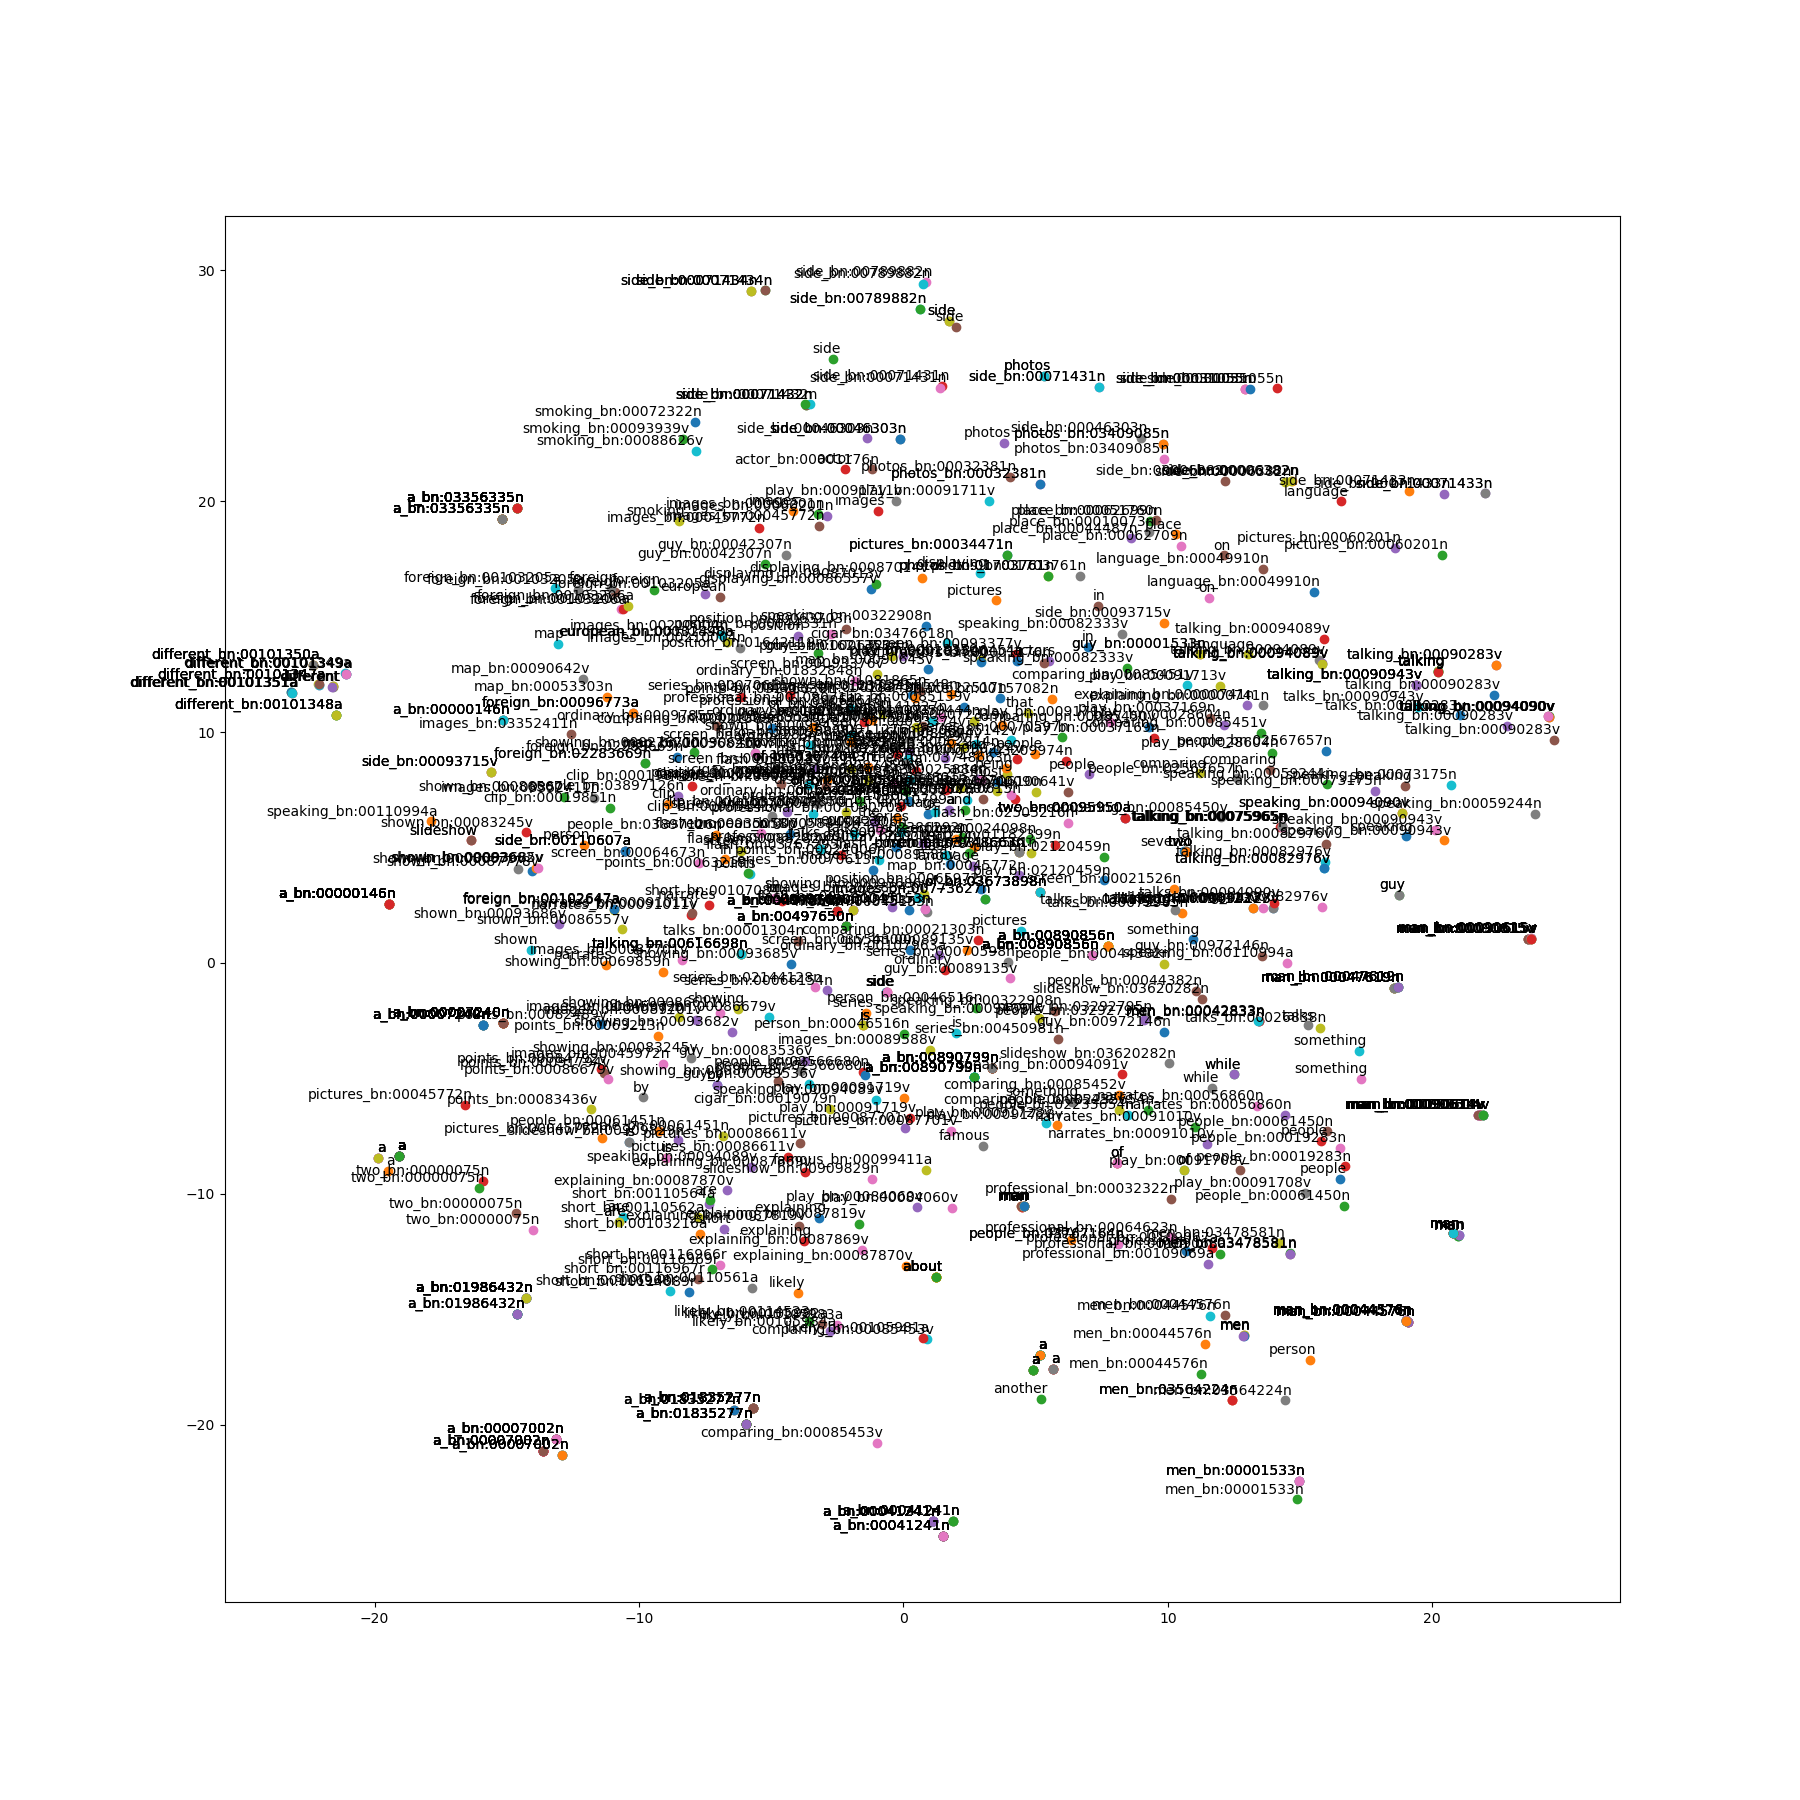
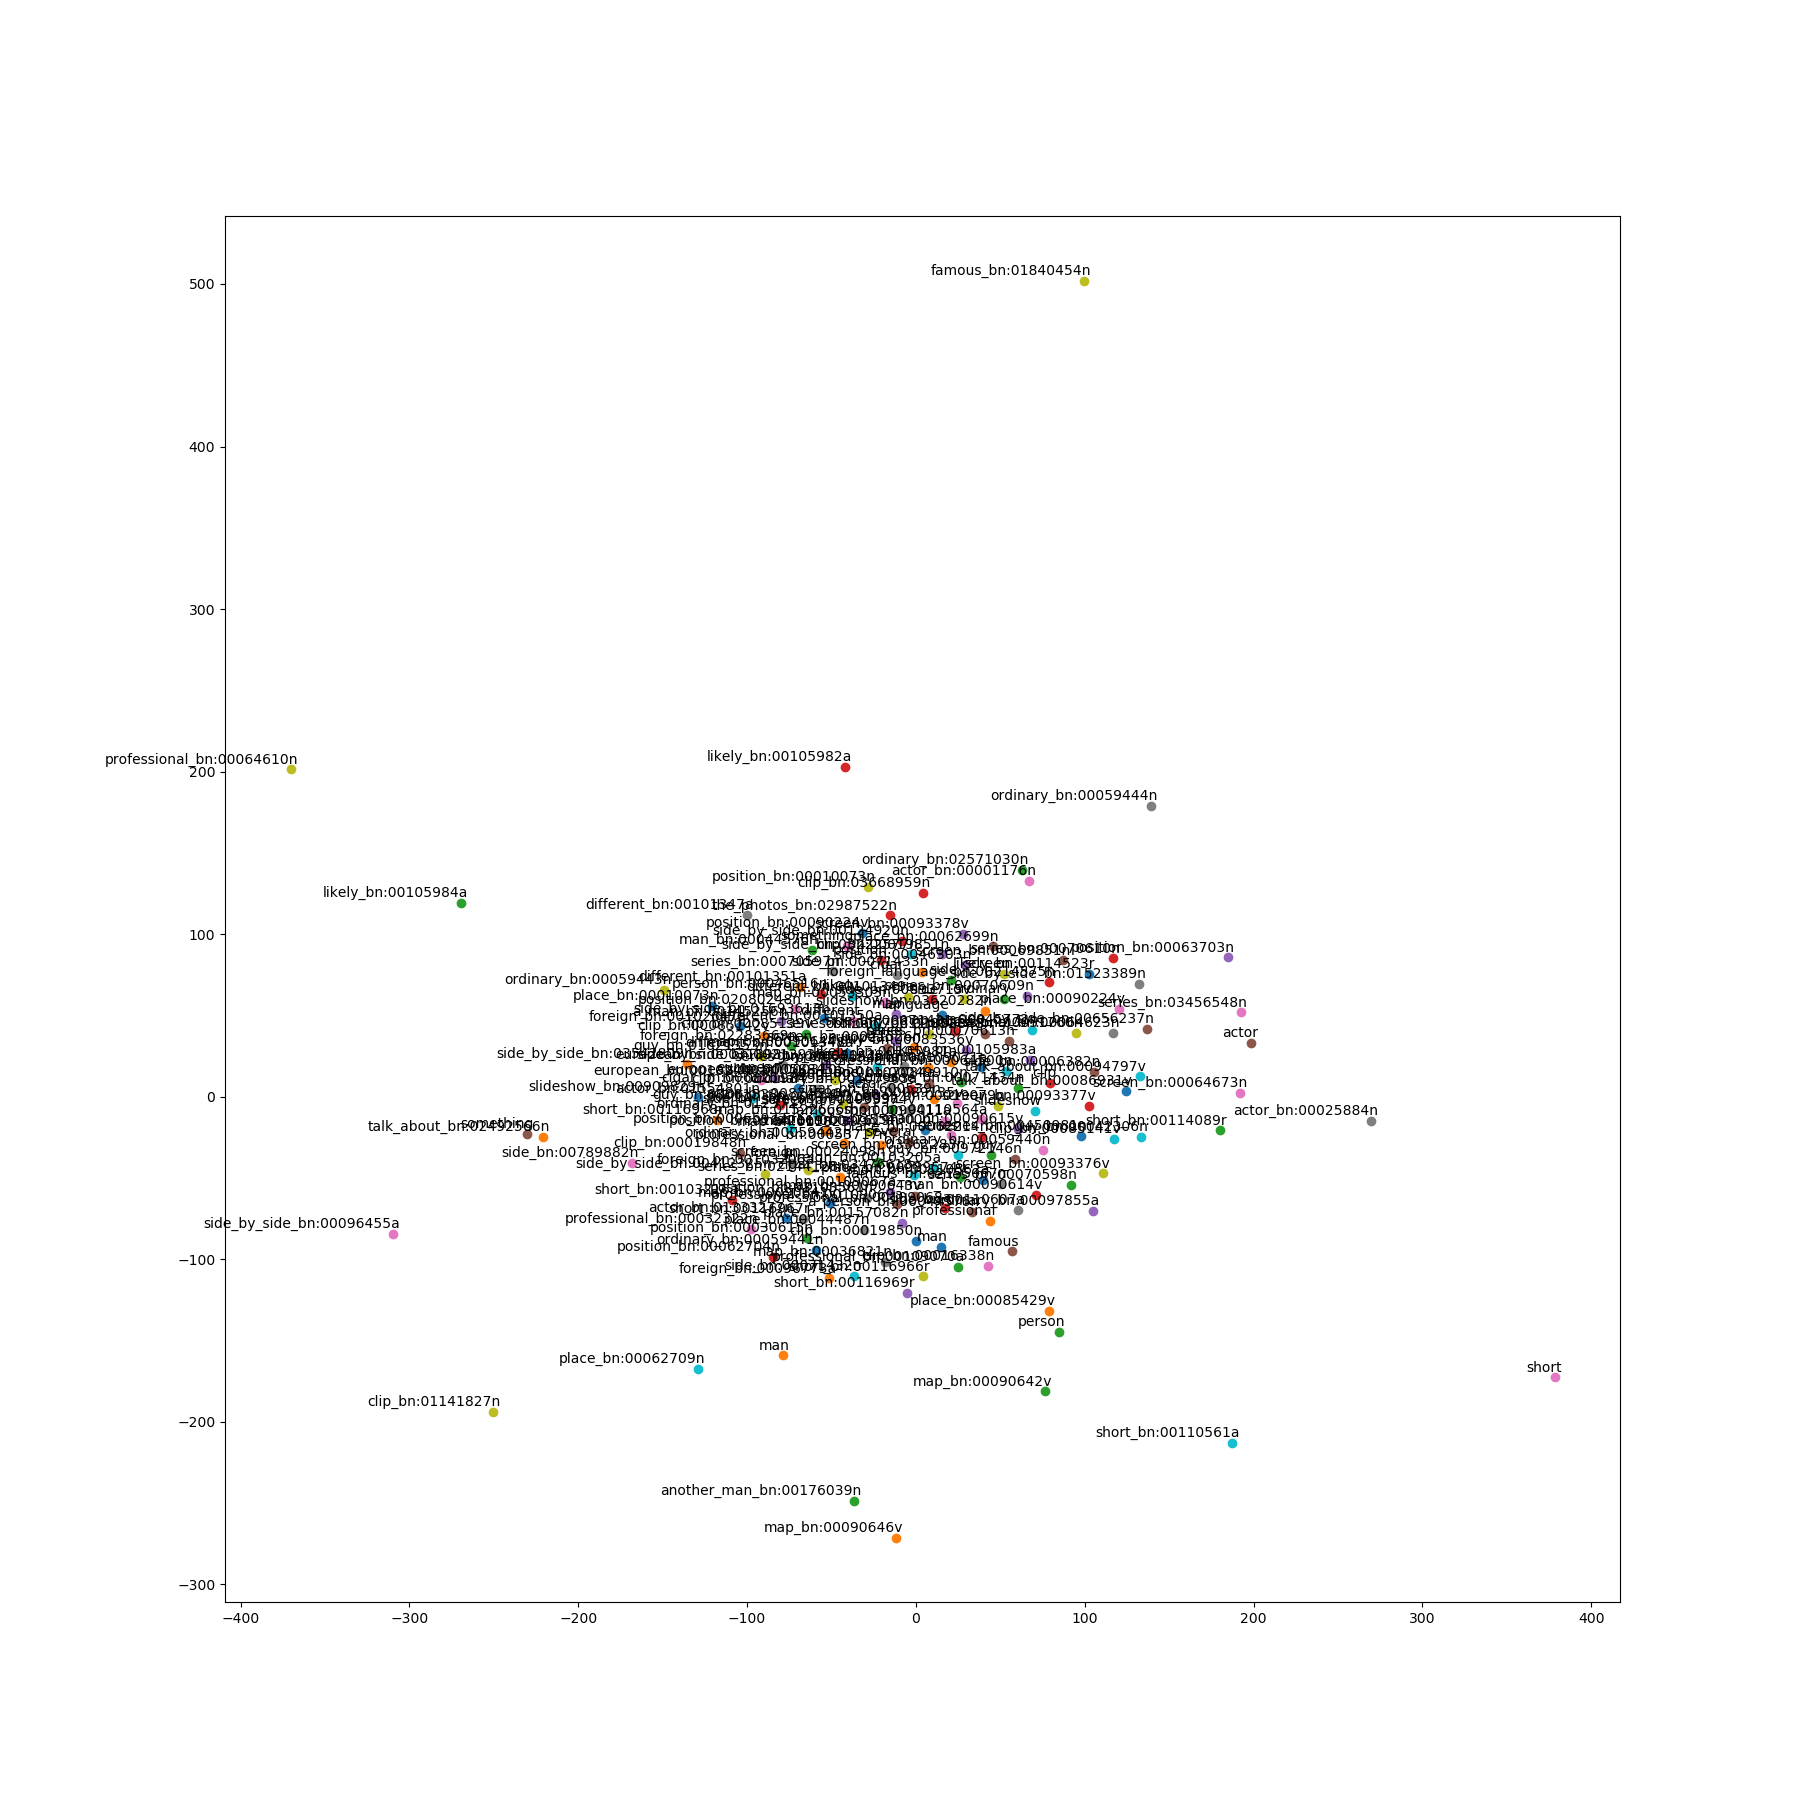
sense search improved with lemmas and groups of words

diff --git a/sense_embeddings.py b/sense_embeddings.py
@@ -2,6 +2,9 @@ import json
 import solr  # solrpy
 import matplotlib.pyplot as plt
 from sklearn.manifold import TSNE
+import nltk
+from nltk.stem import WordNetLemmatizer
+from nltk.tokenize import word_tokenize
 
 
 def plot_with_labels(low_dim_embs, labels, filename='tsne.png'):
@@ -20,9 +23,19 @@ def plot_with_labels(low_dim_embs, labels, filename='tsne.png'):
     plt.savefig(filename)
 
 
-def main():
+def get_relevant_senses(word):
+    # Returns set of relevant senses as decsribed in section 3.1 of SensEmbed:
+    # Leaning Sense Embeddings for Word and Relational Similarity
 
     s = solr.SolrConnection('http://localhost:8983/solr/sensembed_vectors')
+    word_senses1 = s.query('sense:' + word)
+    word_senses2 = s.query('sense:' + word + '_bn*')
+    return word_senses1.results + word_senses2.results
+
+
+def main():
+
+    wnl = WordNetLemmatizer()
 
     with open('/home/lpmayos/code/caption-guided-saliency/DATA/MSR-VTT/train_val_videodatainfo.json') as data_file:
         data = json.load(data_file)
@@ -55,13 +68,36 @@ def main():
         sentences_video = [a['caption'] for a in data['sentences'] if a['video_id'] == video_id]
         final_embeddings = []
         labels = []
+        max_group_length = 5
+
         for sentence in sentences_video:
-            for word in sentence.split():
-                word_senses1 = s.query('sense:' + word)
-                word_senses2 = s.query('sense:' + word + '_bn*')
-                for word_sense in word_senses1.results + word_senses2.results:
-                    final_embeddings.append(word_sense['sensembed'])
-                    labels.append(word_sense['sense'])
+            text = word_tokenize(sentence)
+            pos_tagged_text = nltk.pos_tag(text)
+
+            for word_tag in pos_tagged_text:
+                if word_tag[1] in ['NN', 'JJ', 'VB']:
+                    word_senses = get_relevant_senses(word_tag[0].lower())
+                    word_senses += get_relevant_senses(wnl.lemmatize(word_tag[0]))
+                    for sense in word_senses:
+                        if sense['sensembed'] not in final_embeddings:
+                            final_embeddings.append(sense['sensembed'])
+                            labels.append(sense['sense'])
+
+            groups = []
+            for group_length in range(2, max_group_length + 1):
+                i = 0
+                while i + group_length <= len(text):
+                    group_text = text[i:i + group_length]
+                    groups.append('_'.join([a.lower() for a in group_text]))
+                    groups.append('_'.join([wnl.lemmatize(a) for a in group_text]))
+                    i += 1
+
+            for group in list(set(groups)):
+                word_senses = get_relevant_senses(group)
+                for sense in word_senses:
+                    if sense['sensembed'] not in final_embeddings:
+                        final_embeddings.append(sense['sensembed'])
+                        labels.append(sense['sense'])
 
         tsne = TSNE(perplexity=30, n_components=2, init='pca', n_iter=5000)
         low_dim_embs = tsne.fit_transform(final_embeddings)
